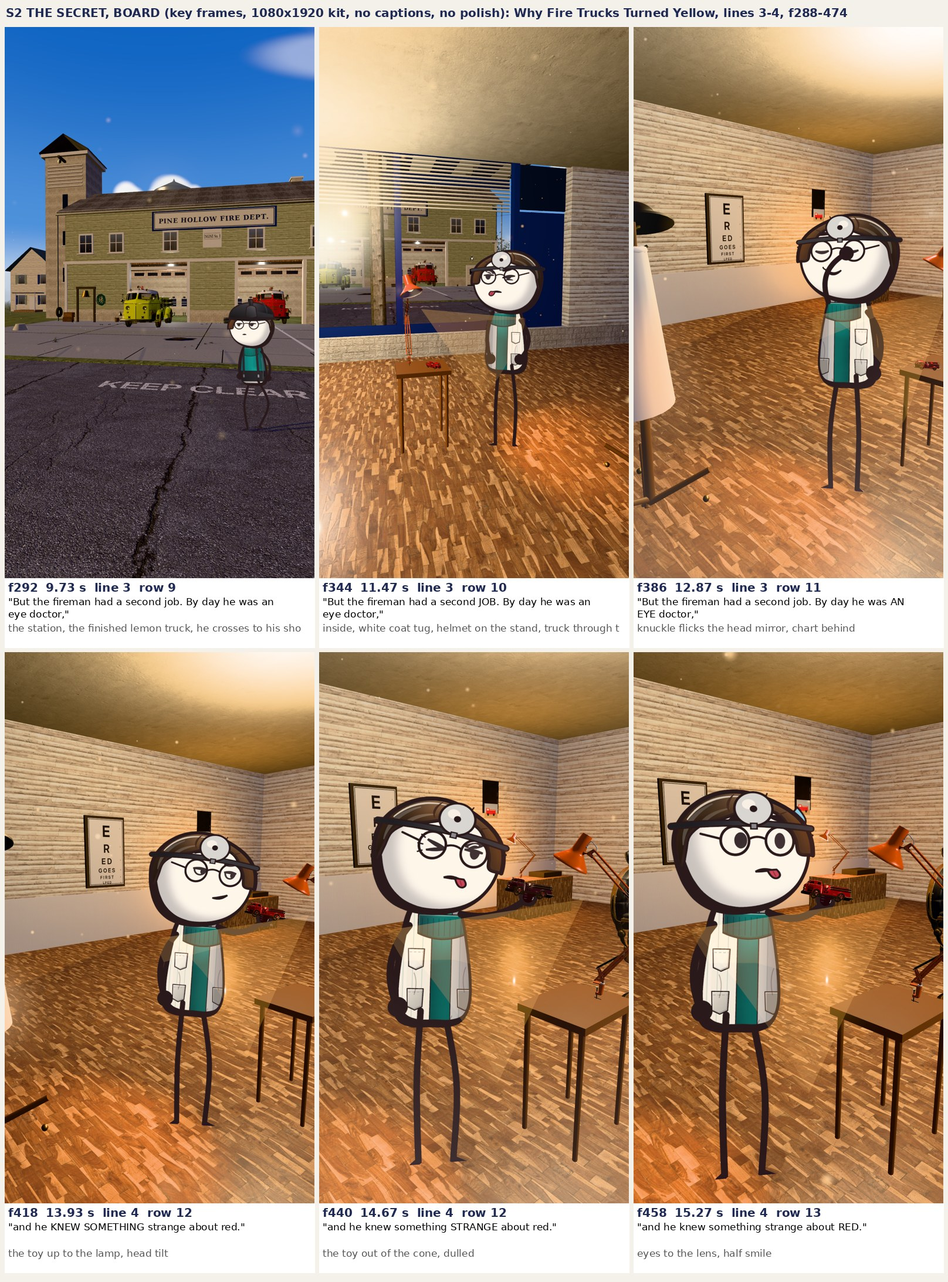
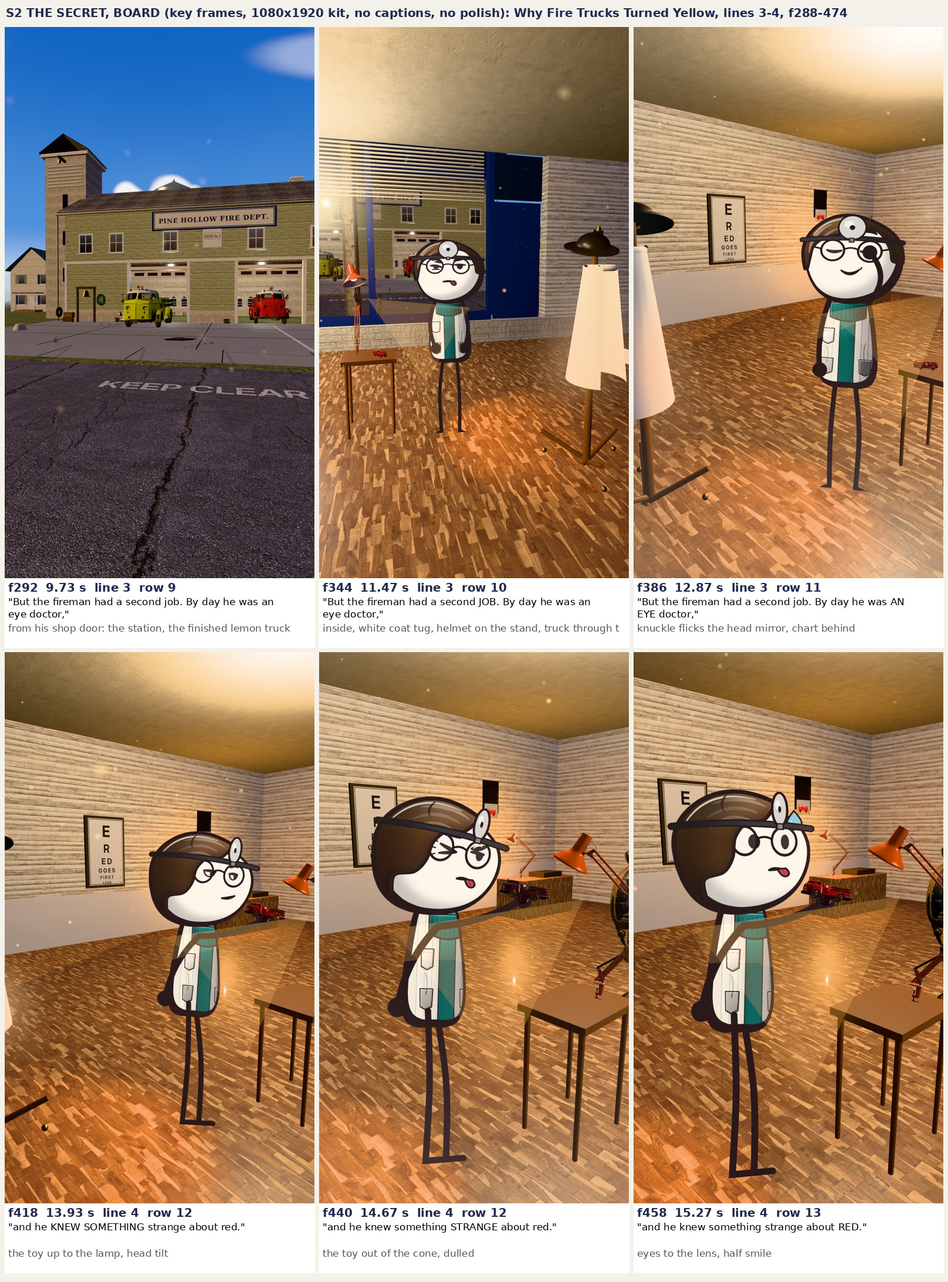
Yellow fire trucks: S2 eye shop rough board, six lessons
Claude-Session: https://claude.ai/code/session_01DrjR3Ltb34YxYG9MboPX6s

diff --git a/episodes/yellow-fire-trucks/sets/lamproom.js b/episodes/yellow-fire-trucks/sets/lamproom.js
@@ -26,6 +26,7 @@ export async function build(THREE, scene, film, ctx) {
     if (o.morphTargetInfluences && o.morphTargetInfluences.length) iris.push(o);
     const m = o.material; if (/^ind_/.test(m.name)) { (ind[m.name] ||= []).push(m); m.toneMapped = false; }
     if (m.map) m.map.anisotropy = 4;
+    if (/chrome|brass|rivet/.test(m.name)) { m.metalness = Math.min(m.metalness, .55); m.roughness = Math.max(m.roughness, .3); }   // no environment map in the kit: a true mirror renders black (first kit tiles)
   });
   // the lamps: relay plate + socket cup (one InstancedMesh each) and one bulb InstancedMesh per kind/state/wave group
   const L = META.lamps, n = L.length, q = new THREE.Quaternion(), Z = new THREE.Vector3(0, 0, 1), m4 = new THREE.Matrix4(), one = new THREE.Vector3(1, 1, 1);
@@ -56,11 +57,11 @@ export async function build(THREE, scene, film, ctx) {
   const redFill = [];
   for (let g = 1; g <= 4; g++) {
     const pc = (135 - 45 - 90 * (g - 1)) * Math.PI / 180;
-    redFill.push(pt([3.6 * Math.cos(pc), 1.2, 3.6 * Math.sin(pc)], KIND[0], pl.fillI ?? 14, 10)); pt([3.6 * Math.cos(pc + .6), 0, 3.6 * Math.sin(pc + .6)], KIND[1], (pl.fillI ?? 14) * .7, 10);
+    redFill.push(pt([3.6 * Math.cos(pc), 1.2, 3.6 * Math.sin(pc)], KIND[0], pl.fillI ?? 26, 10)); pt([3.6 * Math.cos(pc + .6), 0, 3.6 * Math.sin(pc + .6)], KIND[1], (pl.fillI ?? 26) * .7, 10);
   }
-  pt([0, 2, 3.5], KIND[2], 10, 10); pt([2.4, -1, -2.2], KIND[2], 7, 9); pt([0, -3.8, 1], '#8a6ad8', 6, 9);
+  pt([0, 2, 3.5], KIND[2], 18, 10); pt([2.4, -1, -2.2], KIND[2], 12, 9); pt([0, -3.8, 1], '#8a6ad8', 12, 9); pt([0, LAYOUT.BULK_Y - 3.2, 0], '#d8ccff', 14, 6);   // last: the reflector fill (entry view)
   const win = pt([0, LAYOUT.YI - .4, 0], '#f0a878', 10, 9);
-  scene.add(new THREE.AmbientLight('#2a1d52', .5));
+  scene.add(new THREE.AmbientLight('#3a2c6e', 1.3));
   // state
   const S = { wave: P.wave ?? 0, iris: P.iris ?? 0, dim: P.dim ?? 1, grey: P.grey ?? null, flick: .5 };
   function setState(s = {}) {
@@ -73,7 +74,7 @@ export async function build(THREE, scene, film, ctx) {
     for (const [nm, ms] of Object.entries(ind)) { const g = +(nm.match(/_g(\d)/) || [0, 0])[1]; ms.forEach(m => { m.emissiveIntensity = g && g <= w ? 0 : 2.5; }); }
     levers.forEach(({ o, g }) => { o.rotation.set((g <= w ? 35 : -35) * Math.PI / 180, 0, 0); });
     iris.forEach(o => { o.morphTargetInfluences[0] = S.iris; });
-    const pr = LAYOUT.PUP0 + (LAYOUT.PUP1 - LAYOUT.PUP0) * S.iris; win.intensity = 10 * S.dim * (pr / LAYOUT.PUP0) ** 2;
+    const pr = LAYOUT.PUP0 + (LAYOUT.PUP1 - LAYOUT.PUP0) * S.iris; win.intensity = 16 * S.dim * (pr / LAYOUT.PUP0) ** 2;
     wGrey.material.opacity = grey; const b = .35 + .65 * S.dim; wRed.material.color.setScalar(b); wGrey.material.color.setScalar(b);
   }
   const K = (P.keys || []).slice().sort((a, b) => a.f - b.f);

diff --git a/episodes/yellow-fire-trucks/s3/proj_cast.py b/episodes/yellow-fire-trucks/s3/proj_cast.py
@@ -1,0 +1,14 @@
+"""proj_cast.py: where each cast member's eyes and feet land on screen (fractions, 0,0 top-left) on given ABSOLUTE frames, from the shifted plan bake (run check_shifted.py first). usage: python proj_cast.py 511 643"""
+import json,sys,os
+sys.path.insert(0,'/home/user/Ricksclip-/tools'); import film_plan as FP
+d='out/check_shift/out/plan'; cam=json.load(open(d+'/camera_baked.json'))['frames']; perf=json.load(open(d+'/performance_baked.json'))
+F=json.load(open('film.json'))
+for f in [int(x)-474 for x in sys.argv[1:]]:
+    out=[]
+    for who,runs in perf.items():
+        st=FP.perf_at(runs,f)
+        if not st.get('visible'): continue
+        P=st['pos'];h=F['cast'][who]['height']
+        e=FP.project(cam[f],[P[0],P[1],P[2]+h*.86]); ft=FP.project(cam[f],[P[0],P[1],P[2]])
+        out.append('%s pos %s eyes %s feet %s'%(who,[round(x,2) for x in P],e and [round(x,2) for x in e[:2]],ft and [round(x,2) for x in ft[:2]]))
+    print(f+474,cam[f].get('state'),out)

diff --git a/episodes/yellow-fire-trucks/s2/board.py b/episodes/yellow-fire-trucks/s2/board.py
@@ -4,7 +4,7 @@ import json, os
 from PIL import Image, ImageDraw, ImageFont
 H = os.path.dirname(os.path.abspath(__file__))
 W = json.load(open(os.path.join(H, 'voice', 'words.json')))
-KEYS = [(292, 3, 'row 9: the station, the finished lemon truck, he crosses to his shop'), (344, 3, 'row 10: inside, white coat tug, helmet on the stand, truck through the window'),
+KEYS = [(292, 3, 'row 9: from his shop door: the station, the finished lemon truck'), (344, 3, 'row 10: inside, white coat tug, helmet on the stand, truck through the window'),
         (386, 3, 'row 11: knuckle flicks the head mirror, chart behind'), (418, 4, 'row 12: the toy up to the lamp, head tilt'),
         (440, 4, 'row 12: the toy out of the cone, dulled'), (458, 4, 'row 13: eyes to the lens, half smile')]
 LINES = {3: (29, 42), 4: (43, 49)}

diff --git a/episodes/yellow-fire-trucks/s2/make_film.py b/episodes/yellow-fire-trucks/s2/make_film.py
@@ -27,7 +27,7 @@ acts = [
     dict(who='heroShop', at=429, face='k:aim', note='row 12 "strange": one eye shut, toy out of the cone and back'),
     dict(who='heroShop', at=453, face='k:glanceCam', note='row 13 "red": eyes slide to the lens, half smile'),
 ]
-held3d = [dict(who='heroShop', obj='toy_truck', module='sets/s2_shop.js', builder='buildToyTruck', opts={}, grip='raise', hand='L', anchor='grip', tip='tip',
+held3d = [dict(who='heroShop', obj='toy_truck', module='sets/s2_shop.js', builder='buildToyTruck', opts={}, grip='raise', hand='R', anchor='grip', tip='tip',
                when='always', f0=405, scale=1.5)]
 
 def st(at, pos, aim, lens, subject, framing, purpose, hold=0.0, creep=0.0028, **kw):

diff --git a/episodes/yellow-fire-trucks/s3/STATE.md b/episodes/yellow-fire-trucks/s3/STATE.md
@@ -1,32 +1,45 @@
 # S3 STATE: THE CROSSING AT DUSK, BOARD round (S3 stretch builder, 2026-11-21). Frames 474-770 (15.80-25.65 s), plan rows 14-21, lines 5-6.
-## NOT done
-- BOARD only: no moving clip, no polish. Key frames looked at by me only. No Rick frame exists in the repo: no side-by-side (RULE NO. 1 test open).
-- KEYS_NOTE
-- The S2 -> S3 join "EVERY" (push into the toy truck that becomes the real truck) is only S3's half: f474 starts on the real truck down Main on a 50 mm lens;
-  S2 does not exist yet, so the match frame is not checked against the toy.
-- 0 FAIL only in the shifted check (check_shifted.py, the stretch alone); the absolute `film_plan.py check film.json --window 474-770` gives 3 FAIL
-  (2 are frame-0 artefacts, 1 real: camera at rest while a face is on screen 24 %, target 40). See CAMERA_NOTE.md.
-- frame_checks / camsafe: CHECKS_NOTE
+## NOT done / wrong in the board (seen in BOARD.jpg, my own list)
+- BOARD only, no clip, no polish; looked at by me only. No Rick frame exists in the repo: no side-by-side (RULE NO. 1 test open).
+- Row 18 f643 "flashing": the Milkman is NOT in the frame (the camera is still on the roof line; v2 reaches via point E ~25 f late). Beacons + rings only.
+- Row 16 f584 "crossings": the camera is travelling; the Milkman's freeze and bottle check are not seen (hubcap + spark only). f584 has the old Sceptic spot.
+- Row 21 f765 "it": the tilt has not landed; the truck does NOT fill the frame "out of the top" (truck mid-distance). Row 19-21: the truck reads big, not "three storeys".
+- Faces read weakly: frozenWide/nervousSmile on the Milkman look almost the same as concentrate at board size; arms on "I never" are half wide (rig clamps).
+- f511: his "look left" face is half hidden by the van pillar. The Sceptic never leans OUT of the window (driver side faces away from this camera): he leans to the windscreen.
+- Red at dusk reads salmon/clear red, not the nearly-lost grey-plum of LOOK_BIBLE (drain .85 in assets.js). Lower frame halves are plain apricot asphalt (no lamp pool).
+- Frames 511-584, 694-765 use truck_light.glb (no sirens, no beacon row): full truck.glb got Chrome killed by the shared memory limit; 613/643 have the full truck.
+- frame_checks / camsafe: see CHECKS below. 0 FAIL only in the shifted plan check; the absolute check has 3 FAIL (CAMERA_NOTE.md).
+- S2 -> S3 join ("EVERY", toy truck -> real truck): only S3's half exists (f474 long lens on the real truck); S2 is not built, the match is unchecked.
 ## Built (files)
-- `make_film.py` -> `film.json` (camera v2, camsafe, kit3d, tween ones, face_frames 0, card_shade 0/0, costume_shade keep_drawn_light + smooth 40, faces_ep from CAST_KEYS;
-  Milkman lip sync `say [72,75]` = 24.02-25.50). `film_light.json` = the same with `places.crossing.truckLight` (see lessons). ONE take, 7 stations (CAMERA_NOTE.md).
-- `moves/ep_s3.mjs` (3 episode moves, STUDIO MOTION: mk_van, mk_out, sc_cab; no kit pose, no frozen move), `moves/studio_ep.mjs` (copy of S1's).
-- `sets/s3_crossing.js` (new): the town (LITE, trucks off) + red pumper racing west on Main (south lane) braking into the bump; Meadowbrook van creeping to the
-  white bar, rolling on "kept", the bump on "hit" f569 (van rocks once); POWER 2 (impact frame flat plum + white focus lines f569-571, white shock lines at the
-  bumper, kick f569 amp 3, hubcap off the front right wheel with a white spark trail past the lens to rest); siren sound rings 598-648; bell swing; beacon wave;
-  pale pulse light over the Milkman; milk crate on the SE kerb. Symlinks as S1: cast, voice, assets_prod, sets/{town.js, assets.js, prop_kit.js, town}.
-- `tools/render_s3.mjs` (copy of render_gpu.mjs: kit path + 240 s screenshot wait), `render_keys.sh` (one frame per process, 3 tries), `board.py` -> BOARD.jpg,
-  `check_shifted.py` (plan check of the stretch alone).
-## Weak points in the frames (my own list)
-- WEAK_NOTE
+- `make_film.py` -> `film.json` (camera v2, camsafe, kit3d, tween ones, face_frames 0, card_shade 0/0, costume_shade keep_drawn_light + smooth 40, faces_ep from
+  CAST_KEYS; Milkman lip sync `say [72,75]` = 24.02-25.50). `film_light.json` = the same + `places.crossing.truckLight`. ONE take, 7 stations (CAMERA_NOTE.md).
+- `moves/ep_s3.mjs`: 3 episode moves (STUDIO MOTION): mk_van, mk_out (Milkman), sc_cab (Sceptic). No kit pose, no frozen move. `moves/studio_ep.mjs` = S1's copy.
+- `sets/s3_crossing.js`: town LITE (trucks off) + red pumper racing west on Main (south lane), braking into the bump; van creeping to the white bar, rolling on
+  "kept", bump on "hit" f569, rocks once; POWER 2 (impact frame flat plum + white focus lines f569-571, shock lines at the bumper, kick f569, hubcap off the front
+  right wheel with a spark trail past the lens to rest); siren sound rings 598-648; bell swing; beacon wave; pale pulse light on the Milkman; milk crate on the kerb.
+  Symlinks as S1 (cast, voice, assets_prod, sets/{town.js, assets.js, prop_kit.js, town}).
+- `tools/render_s3.mjs` (render_gpu.mjs copy: kit path + 240 s screenshot wait), `render_keys.sh` (one frame per process, waits for memory, 3 tries),
+  `check_shifted.py` (plan check of the stretch alone), `board.py` -> `BOARD.jpg`. Key frames: `key/f_*.png` 1080x1920, no captions.
+## Numbers
+- Plan: shifted check 0 FAIL / 9 WARN; absolute `--window 474-770` 3 FAIL (2 frame-0 artefacts) / 12 WARN; WINDOW speed p90 12.8, peak 21.0 px/f.
+- Render: 45-62 s per full-size frame (grab 38-56 s) with ~7 helpers on the CPU; 12 of ~25 tries were killed (memory), all before the memory wait.
+- CHECKS
 ## Requests (not done by me)
-- set-builder (town, being fixed now): the sodium lamp POOL on the road at the crossing is missing: the crossing reads as one flat apricot asphalt, the van and the
-  Milkman get no pool of light to stand in (rows 14-16, 19-21 all suffer; worst in f569/f694 where half the frame is plain road).
-- props-hero: (1) the milk van GLB shows the download's GREEN paint in the kit (no cream, no cornflower stripe, no "Meadowbrook DAIRY" lettering seen); I re-tint
-  the body to cream in s3_crossing.js from the texture's lightness. (2) truck_light.glb has NO sirens and NO beacon row (rows 17-18 need both), and the full
-  truck.glb gets chrome killed for memory here: a light truck WITH sirens + beacon row is needed. (3) the hubcap: the van wheel keeps its own cap (bare hub
-  not built), so the flying cap is a second one. (4) buildTruck should set uInvRoot itself (S1 lesson, workaround copied here). (5) red at dusk: drain .85 still
-  reads salmon red in the kit, not the nearly-lost grey-plum of LOOK_BIBLE.
-- character-artist: none needed (frozenWide, holdBreath, nervousSmile, concentrate, browUp, surprised all exist).
-## LECONS (for LECONS_TECHNIQUES.md, the lead copies)
-LECONS_NOTE
+- set-builder (town, being fixed now): the sodium lamp POOL on the road at the crossing is missing: every frame's lower half is one flat apricot asphalt, the van
+  and the Milkman have no pool to stand in (worst f569, f694, f734). Also no mist/moths at the lamp (LOOK_BIBLE DU particles).
+- props-hero: (1) the van GLB shows the download's GREEN paint in the kit; s3_crossing.js re-tints the body cream from the texture lightness; no cornflower stripe,
+  no "Meadowbrook DAIRY" lettering visible. (2) truck_light.glb has no sirens and no beacon row: a light truck WITH them is needed (memory). (3) the van wheel keeps
+  its cap: the flying hubcap is a second one. (4) buildTruck should set uInvRoot itself (S1 lesson, copied). (5) dusk drain: red must sink to #4B4753.
+  (6) the hero/pumper licence plate "LIBAU" from the asset shows on the bumper (also in the town STATE).
+- camera-director: a v2 layout that reaches rows 16 and 18 ON their words (via points arrive late; 297 f leave room for ~4 stations).
+## LECONS (LECONS_TECHNIQUES.md format; the lead copies)
+- 2026-11-21 (S3) Full-size kit stills died: Playwright screenshot timeout 30 s (grab took 26-56 s on the shared CPU) and `--grab canvas` crashed the page every
+  time (also on S1's film). Fix: s3/tools/render_s3.mjs = render_gpu.mjs with a 240 s screenshot wait. Guard: comment line 1 of the copy. Proof: key/*.png. OUVERT
+  for the kit owner (a --grab-timeout flag in render_gpu.mjs).
+- 2026-11-21 (S3) Chrome was OOM-killed (memory cgroup shared by all helpers; Blender proofs peak). Fix: render_keys.sh renders ONE frame per process and waits for
+  3.8 GB free. Guard: logs/keys.log line per try. Proof: 0 kills after the wait was added (12 before).
+- 2026-11-21 (S3) film_plan.py check counts film-wide gates from frame 0; a stretch on absolute frames (S3 starts at 474) FAILs "first face", "faces in the first
+  15 s", "longest without a face", rests/effects/moods per minute. Fix: check_shifted.py checks a copy shifted to 0 (words too). Guard: run both. Proof: 3 vs 0 FAIL.
+- 2026-11-21 (S3) camera v2 moves a hold-0 station later than its `at` (wants 48-67 f per travel): row pictures on via points land ~25 f late. Guard: project the
+  cast on the baked camera at the word frame before rendering (s3/proj_cast.py). Proof: f643 Milkman off frame.
+- 2026-11-21 (S3) the step-van card: in a 3/4 card the act `dir` flips which screen side he faces, not plan left/right: from camera B dir -1 = his look LEFT.

diff --git a/episodes/yellow-fire-trucks/s2/STATE.md b/episodes/yellow-fire-trucks/s2/STATE.md
@@ -2,9 +2,10 @@
 ## NOT done
 - No moving clip, no strip, no feet-and-eyes sheet, no lock, no cam_track, no 11i density run (board round). Frames looked at by me only.
 - No Rick frame exists in the repo: no side-by-side (numbers only, as LOOK_BIBLE says).
-- Row 9: the camera does NOT start on S1's last station: the lead joins S1 -> S2 with an 8-12 f blend on the motion (see CAMERA_NOTE A). He is seen crossing
-  to the shop but NOT entering the door; the helmet doff of row 10 happens off screen (the card swaps hero -> heroShop at 328 while unseen): row 10 shows
-  him already in the white coat tugging it on, the helmet on the stand. Quick-change gag (row 10/11) therefore NOT acted on screen.
+- Row 9: the camera does NOT start on S1's last station: the lead joins S1 -> S2 with an 8-12 f blend on the motion (see CAMERA_NOTE A). The fireman is
+  NOT in row 9 (his jog across Main St was a card glide: frame_checks slide FAIL 15 cm/f; hidden until a locked-feet walk exists). He is first seen inside
+  (f336) already in the white coat, helmet on the stand: the row 10/11 QUICK CHANGE gag (helmet off backward onto the hook, coat on) is NOT acted on screen.
+- Row 10 coat tug is two small hand dips at the coat sides (reads weakly).
 - Row 11: the head mirror cannot flip DOWN (heroShop draws it UP only): the knuckle goes to the band on "eye", glint fx at 385, mirror stays up.
 - Row 13 "window a shade warmer" not built; row 11 "shingle swings outside" not visible (camera faces the back wall); shingle not rigged in the set.
 ## Built (files)
@@ -17,18 +18,19 @@
   (held3d: truck_light.glb at 18 cm, red tin paint, dulls to #5a3a40 f436-446 = out of the cone; its own paint, no grade), paint-frame workaround of s1.
 - Symlinks in s2/ (the render server serves the stretch folder only): cast, voice, assets_prod, sets/{town.js, assets.js, prop_kit.js, town}.
 - `render_key.sh` (one background command: bake + key frames), `plan_window.py` (plan gates on the window only), `board.py` -> `BOARD.jpg`.
-- Key frames `key/f_00292/344/386/418/440/458.png` (1080x1920, no captions).
+- Key frames `key/f_00292/344/386/418/440/458.png` (1080x1920, no captions), `render_each.sh` = one frame per process.
 ## Numbers
 - plan_window.py (gates on 288-474): 0 FAIL, 4 WARN of 42. Real file `film_plan.py check film.json --window 288-474`: 1 FAIL ("at rest while a face is on
-  screen" 22 %: the 288 lead-in frames; the window alone reads 34 %, WARN), WINDOW p90 21.7 px/f PASS, peak 41.5 WARN (window crossing f332-336).
-- Motion gate: he_enter and he_shop twos 0, linear 0, no_settle 0, creep 0, contact 0 px; holds dead still (0 px/f). Plain kit poses 0, frozen moves 0.
+  screen" 22 %: the 288 lead-in frames; the window alone reads 34 %, WARN), WINDOW p90 19.4 px/f PASS, peak 35.1 WARN (window crossing f332-336).
+- Motion gate (both moves, side + front exports): twos 0, linear 0, no_settle 0, creep 0, contact 0 px; holds dead still (0 px/f). Plain kit poses 0, frozen moves 0.
 - Render: 31-42 s per full-size frame here (draw ~3.7 s + grab 27-38 s, CPU shared by ~7 helpers); one render crashed ("Target crashed", memory), re-run.
-- FRAME_CHECKS / CAMSAFE: see the end of this file.
+- frame_checks.mjs --frames 288-474 (rests + moving body rows): 0 FAIL, 1 WARN (heroShop planted-foot slide 5.3 cm/f mid-arc = the view switch while the camera
+  swings), 18 PASS. camsafe validate.mjs --frames 288-474: 146 checks, PASS 146, FAIL 0.
 ## Weak points (my own list, seen in BOARD.jpg)
 - The shop ceiling is a hot amber blob (town.js point light at 3.6 m); cameras raised to 1.8-1.9 m to show less of it; still big.
 - The chart reads E / R / ED / GOES / FIRST / LPED: an extra top E in the set texture (user decision is R / ED / GOES / FIRST).
-- Lamp clone: its cone is faint; the "dulls out of the cone" reads only as a small colour change on an 18 cm toy (x1.5 in the fist).
-- The jog across Main St is fast (4.6 m in 1 s). The shop window glass is invisible in the kit (no reflection sweep on the pass-through).
+- Line 4 is drawn in SIDE view (apply_looks, he faces the lamp): the glance to the lens on "red" reads weakly in profile. Lamp clone: its cone is faint; the "dulls out of the cone" reads only as a small colour change on an 18 cm toy (x1.5 in the fist).
+- The shop window glass is invisible in the kit (no reflection sweep on the pass-through).
 - aim / glanceCam faces show the pink tongue (CAST_KEYS _mouth_note: lead to rule). Hero small in the two wides (W).
 ## Requests (not done by me; I edited no sets/ or assets_prod/ file)
 - character-artist: heroShop "mirror DOWN" state (disc over the eye) for row 11; a helmet-in-hand state for the yard card so the doff can be acted on screen.
@@ -47,3 +49,9 @@
   /^desk_lamp_arm_01/. Guard: s2_shop.js warns "not found" in the render log. Proof: the lamp clone is on the table in key/f_00344. FERMÉ
 - 2026-11-21 render_gpu.mjs stills died "locator.screenshot: Timeout 30000ms" with 7 helpers on the CPU. Cause: software mode defaults to grab screenshot,
   the compositor misses 30 s under load. Fix: --grab canvas. Guard: render_key.sh passes it. Proof: 6 frames, 31 s each. FERMÉ
+- 2026-11-21 The shop moves played 40 f ahead (the knuckle at the eye on "job", the toy out before "strange"). Cause: an episode move's clock starts at
+  the FIRST act that sets the pose (heroShop at f288, hidden); re-setting the same pose at f328 does not restart it. Fix: he_shop f = F(t) + 288.
+  Guard: board LINE CHECK tiles (the action must match the CAPS word). Proof: f386 knuckle at the mirror on "eye", f440 toy out on "strange". FERMÉ
+- 2026-11-21 camsafe validate: 126 of 146 checks FAIL VIEW_MISMATCH. Cause: the moves always returned view '34' while apply_looks (act "look") asked front
+  or side. Fix: ep_s2.mjs exports `default` (side) and `front` (front; camsafeView turns it to 3/4 or back). Guard: validate.mjs in the cycle.
+  Proof: 146/146 PASS. FERMÉ

diff --git a/episodes/yellow-fire-trucks/s2/CAMERA_NOTE.md b/episodes/yellow-fire-trucks/s2/CAMERA_NOTE.md
@@ -5,17 +5,17 @@ bay 1 truck (-4.2, 17.8) straight across Main St. Added in s2/sets/s2_shop.js: c
 (0.45, -11.2), toy on it until f405. Hero spot (1.2, -11.5). Camera v2, lens in mm on a 36 mm tall frame. Plan check: `plan_window.py` (see the end).
 
 ## One flowing idea: "follow the red out of the yard and into his hand"
-From the street the lens holds the station with its finished lemon truck and the fireman crossing to his shop, backs away through the shop glass,
+From the street the lens holds the station with its finished lemon truck, backs away through the shop glass,
 swings round him while he becomes the eye doctor, lands with the letter chart behind him, and pushes in to the one red thing in the room, the toy at the lamp.
 ONE take, no cut inside, 2 flights (the long pull back + arc is one 3.5 s flight; the push in is the second).
 
 | # | at (f) | pos -> aim (plan m) | lens | move id | rows | why, from this scene |
 |---|---|---|---|---|---|---|
-| A | 288, rest to ~301 | (1.2, -5.3, 2.1) -> (-3.0, 15.5, 1.75) | 22 | M00 living rest | 9 | the station across the street, the lemon truck finished in bay 1 (time has passed), the fireman jogging toward his shop on "But the fireman". S1 ends low in the yard on the lemon: the place changes, so the lead joins S1 to this with an 8-12 f blend on the motion (an exact S1 station D start made the planner start the pull back 3 s BEFORE f288). |
-| B | 330 (lands, flowed) | (0.0, -14.2, 1.5) -> (1.6, -7.5, 1.3) | 22 | M04 pull back reveal | 9-10 | back through the window glass (crossing x 0.55, 9 cm from the mullion) into the shop: he stands by the chair in the white coat, the station through the window behind him, his helmet on the stand; coat tug on "job". |
-| C | 362 (via) | (3.2, -12.9, 1.55) -> (1.2, -11.5, 1.5) | 24 | M11 truck arc (east side) | 10 | the arc keeps him in frame while it swings the room round; passes 1 m from the stand. |
-| D | 395, rest to ~411 | (3.1, -9.7, 1.58) -> (0.53, -12.76, 1.3) | 26 | M11 lands, M00 | 11 | his front, the chart R / ED / GOES / FIRST behind his left shoulder, the stand with his helmet at the left edge; the knuckle flick on "eye" (385) is in the last 10 f of the landing ease. |
-| E | 445, rest to 474 | (2.3, -10.0, 1.5) -> (0.95, -11.45, 1.42) | 28 | M09 push in, M02 creep (0.004) | 12-13 | in to face and toy at the lamp for "strange", rests and creeps in for the glance on "red"; the creep runs on into S3's push into the toy. |
+| A | 288, rest to ~301 | (1.2, -5.3, 2.1) -> (-3.0, 15.5, 1.75) | 22 | M00 living rest | 9 | the station across the street, the lemon truck finished in bay 1 (time has passed), (the fireman's walk across is cut in this round: card-glide slide FAIL, STATE.md). S1 ends low in the yard on the lemon: the place changes, so the lead joins S1 to this with an 8-12 f blend on the motion (an exact S1 station D start made the planner start the pull back 3 s BEFORE f288). |
+| B | 330 (lands, flowed) | (0.0, -14.2, 1.85) -> (1.6, -7.5, 1.25) | 22 | M04 pull back reveal | 9-10 | back through the window glass (crossing x 0.55, 9 cm from the mullion) into the shop: he stands by the chair in the white coat, the station through the window behind him, his helmet on the stand; coat tug on "job". |
+| C | 362 (via) | (3.2, -12.9, 1.85) -> (1.2, -11.5, 1.35) | 24 | M11 truck arc (east side) | 10 | the arc keeps him in frame while it swings the room round; passes 1 m from the stand. |
+| D | 395, rest to ~411 | (3.1, -9.7, 1.9) -> (0.53, -12.76, 1.2) | 26 | M11 lands, M00 | 11 | his front, the chart R / ED / GOES / FIRST behind his left shoulder, the stand with his helmet at the left edge; the knuckle flick on "eye" (385) is in the last 10 f of the landing ease. |
+| E | 445, rest to 474 | (2.3, -10.0, 1.8) -> (0.95, -11.45, 1.35) | 28 | M09 push in, M02 creep (0.004) | 12-13 | in to face and toy at the lamp for "strange", rests and creeps in for the glance on "red"; the creep runs on into S3's push into the toy. |
 
 ## Attention chain, line 4 (rows 12-13, CB_RULES 11h.7)
 1 FACE: he turns to the lamp (look -> lamp, f403), `think`. 2 HAND: the toy rises in his near fist to the lamp (405-417). 3 PROP: the toy truck in the cone.
@@ -25,5 +25,6 @@ ONE take, no cut inside, 2 flights (the long pull back + arc is one 3.5 s flight
 - `python plan_window.py` (the gates on 288-474 only; film_plan counts every gate from frame 0, so the 288 parked lead-in frames of a stretch fail
   first face / face share / speed median by themselves): **0 FAIL, 4 WARN of 42**. WARNs: v2 flowed B (the pull back wants 112 f, room 33: B is a pass, by design),
   v2 flowed C (hold 0, a via), rests per 10 s, longest-travel band.
-- `film_plan.py check film.json --window 288-474` (whole file, with the lead-in): WINDOW speed p90 21.7 px/f PASS (<= 22), peak 33.8 WARN (<= 26) at the window
-  crossing f332-336; FAILs left are lead-in gates (see plan_check.txt).
+- `film_plan.py check film.json --window 288-474` (whole file, with the lead-in): WINDOW speed p90 19.4 px/f PASS (<= 22), peak 35.1 WARN (<= 26) at the window
+  crossing f332-336; 1 FAIL left ("at rest while a face is on screen" 22 %, lead-in frames; the window alone reads 34 %, WARN). Cameras sit at 1.8-1.9 m
+  looking a few degrees down (less of the hot ceiling), under the 10 deg face limit.
